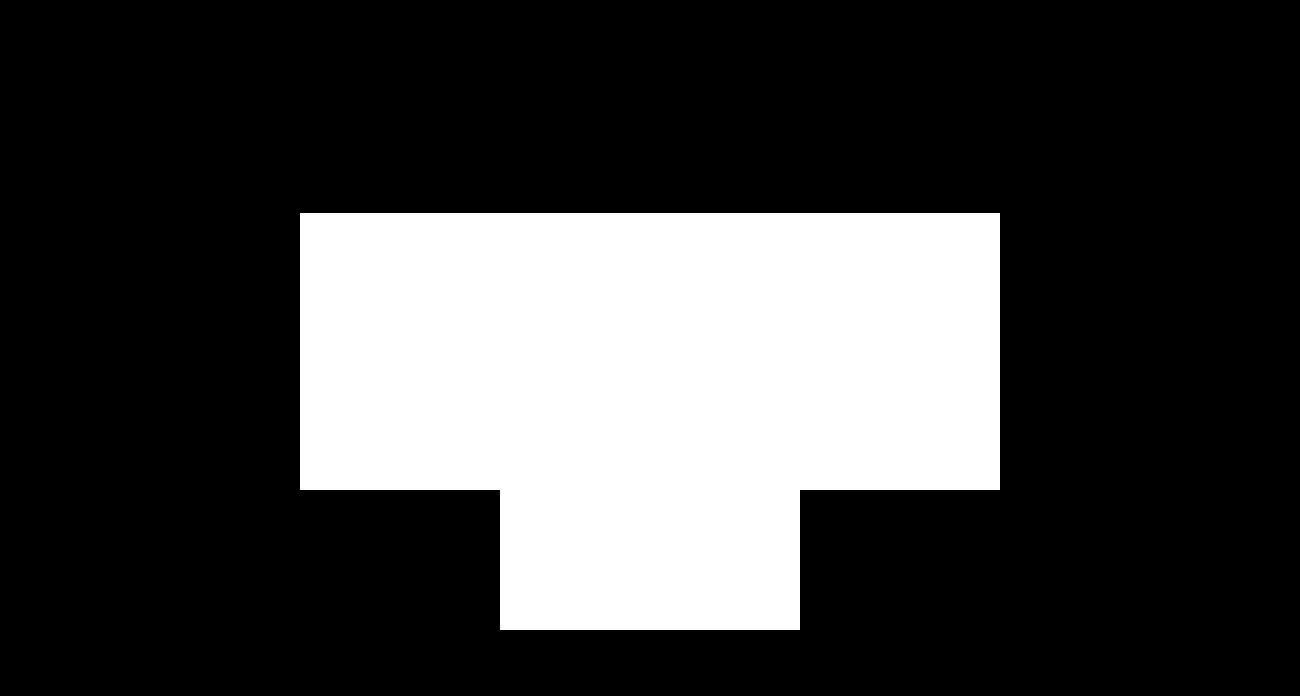
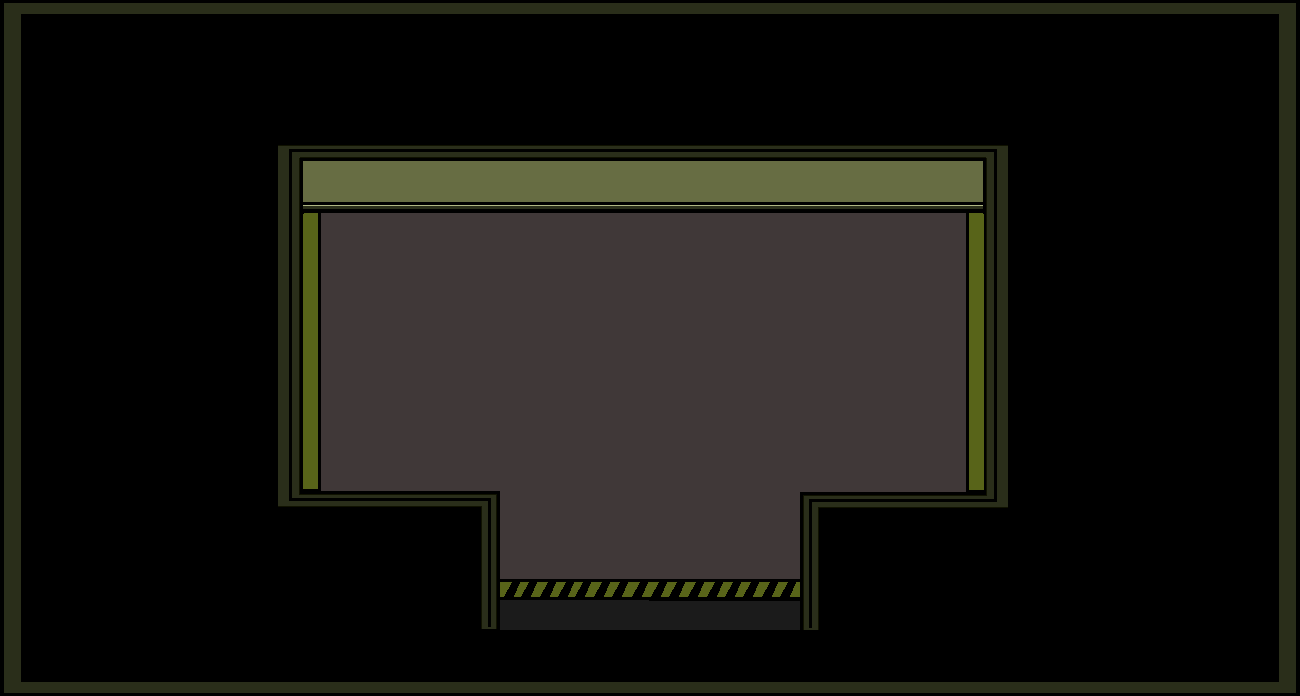
Adição das Imagens do mapa e leve mudança na matriz

diff --git a/ProjetoRPG_1/ProjetoRPG_1/Mapa.cs b/ProjetoRPG_1/ProjetoRPG_1/Mapa.cs
@@ -19,18 +19,19 @@ namespace ProjetoRPG
 
             Map = new GameObject[9, 132]
             {{G,G,G,G,G,G,G,G,G,G,G,G,G,G,G,G,G,G,G,G,G,G,G,G,G,G,G,G,G,G,G,G,G,G,G,G,G,G,G,G,G,G,G,G,G,G,G,G,G,G,G,G,G,G,G,G,G,G,G,G,G,G,G,G,G,G,G,G,G,G,G,G,G,G,G,G,G,G,G,G,G,G,G,G,G,G,G,G,G,G,G,G,G,G,G,G,G,G,G,G,G,G,G,G,G,G,G,G,G,G,G,G,G,G,G,G,G,G,G,G,G,G,G,G,G,G,G,G,G,G,G,G},
-             {G,G,G,G,G,G,G,G,G,G,G,G,G,null,null,null,null,null,null,null,G,G,G,G,G,null,null,null,null,null,null,null,null,null,null,G,G,G,G,G,G,G,null,null,G,null,null,G,G,null,null,null,null,null,null,null,G,G,G,G,G,G,null,null,null,null,null,null,null,null,null,G,G,G,G,G,G,null,G,G,G,G,G,G,G,null,null,G,G,G,G,G,G,G,null,G,G,G,G,G,G,G,G,G,G,G,G,G,G,G,G,G,G,null,G,null,null,null,G,G,G,G,null,G,null,G,null,null,null,G,G,G},
-             {G,G,G,G,G,G,G,G,G,G,G,G,G,null,null,null,null,null,null,null,null,G,G,G,G,null,G,G,G,G,G,G,G,G,null,G,G,G,G,G,G,G,null,null,G,null,null,G,G,null,null,G,G,null,null,null,G,G,G,G,G,null,null,null,null,null,null,null,null,null,null,G,G,G,G,G,null,null,null,null,G,G,G,G,G,null,null,null,null,null,null,null,G,null,null,G,G,G,G,G,G,G,G,G,G,G,G,G,G,null,null,null,null,null,null,null,null,null,null,G,G,G,null,null,null,null,null,null,null,G,G,G},
-             {G,G,G,null,null,null,null,null,null,G,G,G,G,null,null,null,null,null,null,null,G,G,G,G,G,null,null,null,null,null,null,null,null,null,null,G,G,null,null,null,null,null,null,null,null,null,null,G,G,null,null,G,G,null,null,null,G,G,G,G,G,G,null,null,null,G,G,G,G,G,G,G,G,G,G,G,null,null,null,null,G,G,G,G,G,null,null,null,null,null,null,null,G,null,null,G,G,G,null,null,null,null,null,null,null,null,G,G,G,G,null,null,null,null,null,null,null,null,null,G,G,G,null,G,G,G,null,null,null,null,G,G},
-             {G,G,G,null,null,null,null,null,null,G,G,G,G,null,null,null,null,null,null,null,G,G,G,G,G,null,G,G,G,G,G,G,G,G,null,G,G,null,null,null,null,null,G,null,null,null,null,G,G,null,null,G,G,null,null,null,G,G,G,G,G,null,null,null,G,G,G,G,G,G,G,G,G,G,G,G,null,null,null,null,G,G,G,G,G,null,null,null,null,null,null,null,null,null,null,G,G,null,null,null,null,null,null,null,null,null,null,G,G,G,G,null,null,null,null,null,null,null,G,G,G,G,null,G,G,G,null,null,null,null,G,G},
-             {G,G,G,null,null,null,null,null,null,G,G,G,G,null,null,null,null,null,null,null,null,G,G,G,G,null,null,null,null,null,null,null,null,null,null,G,G,null,null,null,null,null,G,null,null,null,null,G,G,null,null,G,G,null,null,null,G,G,G,G,G,G,null,null,G,G,G,G,G,G,G,G,G,G,G,G,null,null,null,null,G,G,G,G,G,G,G,null,null,null,null,null,null,null,G,G,G,G,null,null,null,null,null,null,null,null,G,G,G,G,G,null,null,null,null,null,null,G,G,G,G,G,null,null,null,null,null,null,null,G,G,G},
-             {G,G,G,G,G,null,null,G,G,G,G,G,G,null,null,null,null,null,null,null,null,G,G,G,G,null,G,G,G,G,G,G,G,G,null,G,G,null,null,null,null,null,null,null,null,null,null,G,G,null,null,G,G,null,null,null,G,G,G,G,G,G,G,null,null,G,G,G,G,G,G,G,G,G,G,G,null,null,null,null,G,G,G,G,G,G,G,null,null,null,null,null,null,null,G,G,G,G,G,G,G,null,null,G,G,G,G,G,G,G,null,null,null,null,null,null,null,G,G,G,G,G,null,null,null,null,null,null,null,G,G,G},
+             {G,G,G,G,G,G,G,G,G,G,G,G,G,null,null,null,null,null,null,null,G,G,G,G,G,null,null,null,null,null,null,null,null,null,null,G,G,G,G,G,G,G,null,null,G,G,null,G,G,null,null,null,null,null,null,null,G,G,G,G,G,G,null,null,null,null,null,null,null,null,null,G,G,G,G,G,G,null,G,G,G,G,G,G,G,null,null,G,G,G,G,G,G,G,null,G,G,G,G,G,G,G,G,G,G,G,G,G,G,G,G,G,G,null,G,G,null,null,G,G,G,G,null,G,null,G,null,null,null,G,G,G},
+             {G,G,G,G,G,G,G,G,G,G,G,G,G,null,null,null,null,null,null,null,null,G,G,G,G,null,null,null,null,null,null,null,null,null,null,G,G,G,G,G,G,G,null,null,G,G,null,G,G,null,null,G,G,null,null,null,G,G,G,G,G,null,null,null,null,null,null,null,null,null,null,G,G,G,G,G,null,null,null,null,G,G,G,G,G,null,null,null,null,null,null,null,G,G,null,G,G,G,G,G,G,G,G,G,G,G,G,G,G,null,null,null,null,null,null,null,null,null,null,G,G,G,null,null,null,null,null,null,null,G,G,G},
+             {G,G,G,null,null,null,null,null,null,G,G,G,G,null,null,null,null,null,null,null,G,G,G,G,G,null,null,null,null,null,null,null,null,null,null,G,G,null,null,null,null,null,null,null,null,null,null,G,G,null,null,G,G,null,null,null,G,G,G,G,G,G,null,null,null,G,G,G,G,G,G,G,G,G,G,G,null,null,null,null,G,G,G,G,G,null,null,null,null,null,null,null,G,G,null,G,G,G,null,null,null,null,null,null,null,null,G,G,G,G,null,null,null,null,null,null,null,null,null,G,G,G,null,G,G,G,null,null,null,null,G,G},
+             {G,G,G,null,null,null,null,null,null,G,G,G,G,null,null,null,null,null,null,null,G,G,G,G,G,null,null,null,null,null,null,null,null,null,null,G,G,null,null,null,null,null,G,G,null,null,null,G,G,null,null,G,G,null,null,null,G,G,G,G,G,null,null,null,G,G,G,G,G,G,G,G,G,G,G,G,null,null,null,null,G,G,G,G,G,null,null,null,null,null,null,null,null,null,null,G,G,null,null,null,null,null,null,null,null,null,null,G,G,G,G,null,null,null,null,null,null,G,G,G,G,G,null,G,G,G,null,null,null,null,G,G},
+             {G,G,G,null,null,null,null,null,null,G,G,G,G,null,null,null,null,null,null,null,null,G,G,G,G,null,null,null,null,null,null,null,null,null,null,G,G,null,null,null,null,null,G,G,null,null,null,G,G,null,null,G,G,null,null,null,G,G,G,G,G,G,null,null,G,G,G,G,G,G,G,G,G,G,G,G,null,null,null,null,G,G,G,G,G,G,G,null,null,null,null,null,null,null,G,G,G,G,null,null,null,null,null,null,null,null,G,G,G,G,G,null,null,null,null,null,null,G,G,G,G,G,null,null,null,null,null,null,null,G,G,G},
+             {G,G,G,G,G,null,null,G,G,G,G,G,G,null,null,null,null,null,null,null,null,G,G,G,G,null,null,null,null,null,null,null,null,null,null,G,G,null,null,null,null,null,null,null,null,null,null,G,G,null,null,G,G,null,null,null,G,G,G,G,G,G,null,null,null,G,G,G,G,G,G,G,G,G,G,G,null,null,null,null,G,G,G,G,G,G,G,null,null,null,null,null,null,null,G,G,G,G,G,G,G,null,null,G,G,G,G,G,G,G,null,null,null,null,null,null,null,G,G,G,G,G,null,null,null,null,null,null,null,G,G,G},
              {G,G,G,G,G,null,null,G,G,G,G,G,G,null,G,null,G,null,null,null,null,G,G,G,G,null,null,null,null,null,null,null,null,null,null,G,G,G,null,G,G,G,G,G,G,G,G,G,G,null,null,null,null,null,null,null,G,G,G,G,G,null,null,null,null,null,null,null,null,null,null,G,G,G,G,G,G,null,G,G,G,G,G,G,G,G,null,null,null,G,null,G,null,null,G,G,G,G,G,G,G,null,null,G,G,G,G,G,G,G,null,null,null,null,null,null,null,null,null,G,G,G,null,G,null,G,null,null,null,null,null,G},
              {G,G,G,G,G,G,G,G,G,G,G,G,G,G,G,G,G,G,G,G,G,G,G,G,G,G,G,G,G,G,G,G,G,G,G,G,G,G,G,G,G,G,G,G,G,G,G,G,G,G,G,G,G,G,G,G,G,G,G,G,G,G,G,G,G,G,G,G,G,G,G,G,G,G,G,G,G,G,G,G,G,G,G,G,G,G,G,G,G,G,G,G,G,G,G,G,G,G,G,G,G,G,G,G,G,G,G,G,G,G,G,G,G,G,G,G,G,G,G,G,G,G,G,G,G,G,G,G,G,G,G,G}};
 
+
             //Loading de elementos
             LoadingDeslocamentosMapa(Map);
-            LoadingEnemiesMapa(Map);
+            //LoadingEnemiesMapa(Map);
             LoadingItensMapa(Map);
             this.MapaJogo = Map;
         }
